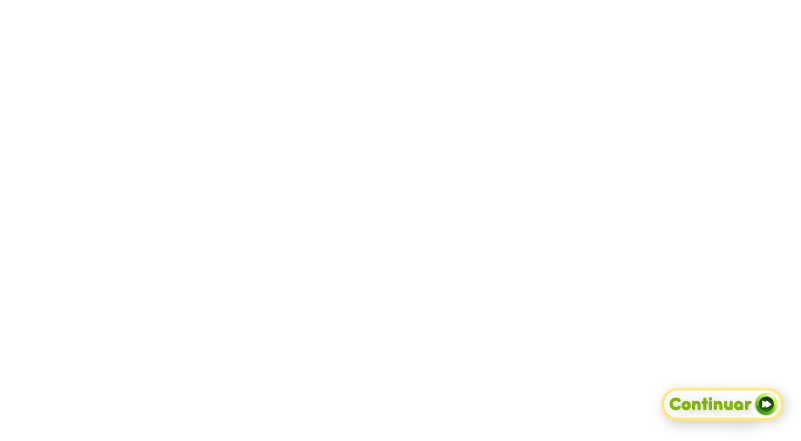
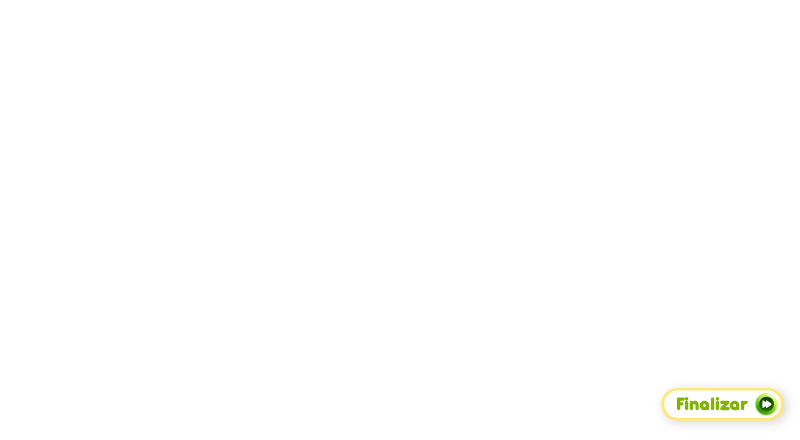
22

Changed region(s): [[0.8125, 0.8568, 1.0, 0.975]]

diff --git a/cuentico/src/view/Main.java b/cuentico/src/view/Main.java
@@ -7,7 +7,7 @@ public class Main extends PApplet {
 	
 	boolean paja,madera,ladrillos,pintar;
 	private  Controller controlle;
-	int posxini,posyini,posxini2,posyini2;
+	int posxini,posyini,posxini2,posyini2,pantalla,scroy;
 
 	public static void main(String[] args) {
 		
@@ -30,46 +30,64 @@ public class Main extends PApplet {
 		posyini=451;
 		posxini2=345+106;
 		posyini2=451+90;
-		
+		pantalla=0;
 	}
 	
 	public void draw() {
-		
-		background(0);
-		
-		controlle.draw();
-		
+		switch (pantalla) {
+		case 0:
+			background(0);
+			controlle.screenini();
+			
+			break;
+		case 1:
+			background(0);
+			
+			controlle.draw();
+			
+			if(controlle.pantallita()==2) {
+			if (paja==true) {
+				controlle.casotas().get(0).draw();
+				controlle.animales().get(1).draw(false);
+				
+			}else {controlle.animales().get(1).draw(true);
+				
+			}
+			if (madera==true) {
+				controlle.casotas().get(1).draw();
+				controlle.animales().get(2).draw(false);
+				
+			}else {controlle.animales().get(2).draw(true);
+				
+			}
+			if (ladrillos==true) {
+				controlle.casotas().get(2).draw();
+				controlle.animales().get(3).draw(false);
+				
+			}else {
+				controlle.animales().get(3).draw(true);
+			}
+			}
+			
+			mouseOver();
+			
+			break;
+		case 2:
+			
+			controlle.screenend();
+			
+			break;
+		case 3:
+			
+			break;
 
-		if (paja==true) {
-			controlle.casotas().get(0).draw();
-			controlle.animales().get(1).draw(false);
-			
-		}else {controlle.animales().get(1).draw(true);
-			
 		}
-		if (madera==true) {
-			controlle.casotas().get(1).draw();
-			controlle.animales().get(2).draw(false);
-			
-		}else {controlle.animales().get(2).draw(true);
-			
-		}
-		if (ladrillos==true) {
-			controlle.casotas().get(2).draw();
-			controlle.animales().get(3).draw(false);
-			
-		}else {
-			controlle.animales().get(3).draw(true);
-		}
-		
-		text("X:  "+mouseX+"   Y:   "+mouseY,mouseX,mouseY);
-		mouseOver();
 		
 		
 	}
 	
 	public void mouseOver() {
-		if (mouseX > 345 && mouseX < 451 && mouseY > 352 && mouseY < 439 ) {
+		if (mouseX > 345 && mouseX < 451 && mouseY > 352 && mouseY < 439 && controlle.pantallita()==2  ) {
 			controlle.animales().get(0).interior();
 
 			
@@ -93,27 +111,44 @@ public class Main extends PApplet {
 			controlle.casotas().get(2).interior();
 		}
 		
+		if (mouseX >0 && mouseX <800 && mouseY>340 && mouseY < 440 ) {
+			
+			scroy= controlle.scrolly();
+			scroy =scroy-5;
+			controlle.scroly(scroy);
+		}
+		
 
 		
 	}
 	
 	public void mouseClicked() {
 	
+		if (mouseX>343 &&  mouseX<486 && mouseY>233 && mouseY<298 && pantalla==0) {
+			pantalla=1;
+			
+		}
+		
 		// area paja
-		if (mouseX > 85 && mouseX < 202 && mouseY > 318 && mouseY < 394) {
+		if (mouseX > 85 && mouseX < 202 && mouseY > 318 && mouseY < 394 && controlle.pantallita()==2) {
 			paja=true;
 			
 		}
 		// area madera
-		if (mouseX > 331 && mouseX < 427 && mouseY > 286 && mouseY < 333) {
+		if (mouseX > 331 && mouseX < 427 && mouseY > 286 && mouseY < 333 && controlle.pantallita()==2) {
 			madera = true;
 			
 		}
 		// area ladrillo
-		if (mouseX > 590 && mouseX < 739 && mouseY > 308 && mouseY < 372) {
+		if (mouseX > 590 && mouseX < 739 && mouseY > 308 && mouseY < 372 && controlle.pantallita()==2) {
 			ladrillos = true; 
 		}
 		
+		if (mouseX > 660 && mouseX< 780 && mouseY >390 && mouseY<422 && controlle.pantallita()==2) {
+			
+			pantalla=2;
+			
+		}
 		
 		
 	}
@@ -121,19 +156,20 @@ public class Main extends PApplet {
 	public void mouseDragged() {
 	
 		
-		//if (mouseX > 345 && mouseX < 451 && mouseY >  352 && mouseY < 442) {
+		/*if (pantalla==1) {
 			System.out.println("arrastrando");
 			int posxlobo = controlle.animales().get(0).getPosx()+(mouseX- posxini);
 			int posylobo = controlle.animales().get(0).getPosy()+(mouseY - posyini);
 			controlle.animales().get(0).setPosx(posxlobo);
 			controlle.animales().get(0).setPosy(posylobo);
+			controlle.animales().get(0).interior();
 			posxini=mouseX;
 			posyini=mouseY;
 			
 			System.out.println("arrastrando");
 			
 			
-		//}
+		}*/
 		
 		
 		

diff --git a/cuentico/src/model/Logic.java b/cuentico/src/model/Logic.java
@@ -10,11 +10,19 @@ public class Logic {
 	private String[] info1;
 	private LinkedList<Personajes> animales;
 	private LinkedList<Casas> casitas;
-	private PImage imagenFondo;
+	private PImage imagenFondo,imageninicio,imagenfinal,boton,inicio,scroll;
+	private int pantallita,posyscroll;
 
 	public Logic(PApplet app) {
 		this.app = app;
 		imagenFondo = app.loadImage("../data/imports/img/principal.png");
+		imageninicio = app.loadImage("../data/imports/img/inicio2.png");
+		imagenfinal = app.loadImage("../data/imports/img/final.png");
+		boton=app.loadImage("../data/imports/img/boton1.png");
+		inicio=app.loadImage("../data/imports/img/scroll1.png");
+		scroll=app.loadImage("../data/imports/img/scroll2.png");
+		posyscroll = 440;
+		pantallita=0;
 		cargar();
 		cargartext();
 	}
@@ -87,8 +95,42 @@ public class Logic {
 	}
 
 	public void draw() {
-		app.image(imagenFondo, 0, 0);
-		getAnimales().get(0).draw(true);
+		
+	    switch (pantallita) {
+	    
+	    case 0:
+	    	app.image(inicio, 0, 0);
+	    	app.image(scroll, 0, getPosyscroll());
+	    	System.out.println("entra");
+	    	break;
+	    case 1:
+	    	app.image(imagenFondo, 0, 0);
+	    	app.image(scroll, 0, getPosyscroll());
+	    	break;
+	    case 2:
+	    	app.image(imagenFondo, 0, 0);
+	    	getAnimales().get(0).draw(true);
+	    	app.image(boton,0,0);
+	    	break;
+	    }
+		if (getPosyscroll()==0) {
+			pantallita=1;
+		}
+		if (getPosyscroll()==-440) {
+			pantallita=2;
+		}
+	
+		
+		
+		
+	}
+
+	public int getPantallita() {
+		return pantallita;
+	}
+
+	public void setPantallita(int pantallita) {
+		this.pantallita = pantallita;
 	}
 
 	public LinkedList<Personajes> getAnimales() {
@@ -105,6 +147,24 @@ public class Logic {
 
 	public void setCasitas(LinkedList<Casas> casitas) {
 		this.casitas = casitas;
+	}
+
+	public void screenini() {
+		app.image(imageninicio, 0, 0);
+		
+	}
+
+	public void screenend() {
+		app.image(imagenfinal, 0, 0);
+		
+	}
+
+	public int getPosyscroll() {
+		return posyscroll;
+	}
+
+	public void setPosyscroll(int posyscroll) {
+		this.posyscroll = posyscroll;
 	}
 
 }

diff --git a/cuentico/src/contoller/Controller.java b/cuentico/src/contoller/Controller.java
@@ -39,4 +39,29 @@ public class Controller {
 		return logi.getCasitas();
 
 	}
+
+	public void screenini() {
+		logi.screenini();
+	}
+
+	public void screenend() {
+		logi.screenend();
+		
+	}
+	
+	public int scrolly() {
+		
+		return logi.getPosyscroll();
+		
+	}
+	
+	public int pantallita() {
+		return logi.getPantallita();
+	}
+	
+	
+	public void scroly(int scroy) {
+		
+		logi.setPosyscroll(scroy);
+	}
 }
